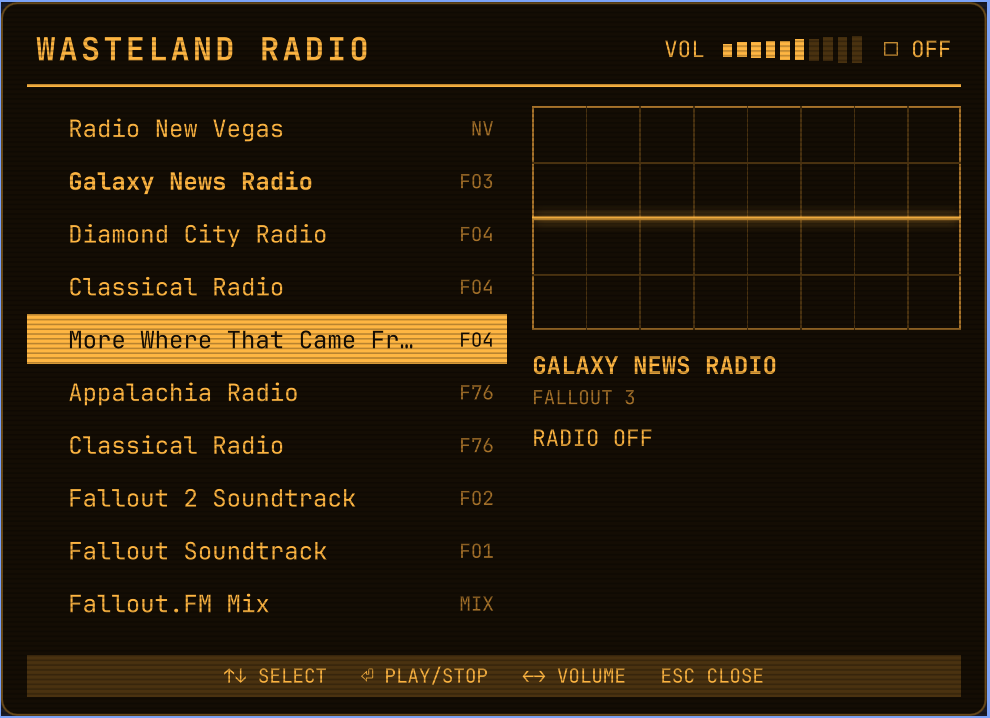
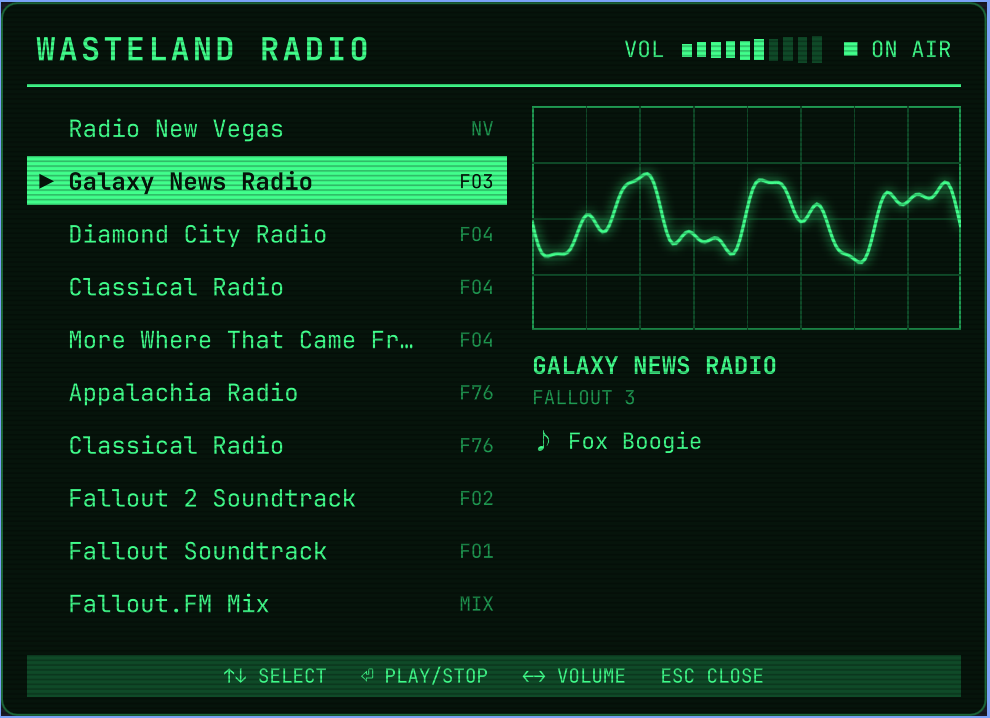
Show the green tuner playing in the preview

diff --git a/README.md b/README.md
@@ -2,7 +2,7 @@
 
 An [Omarchy](https://omarchy.org) bar widget that plays Fallout radio stations while you work, with a green-phosphor terminal tuner for picking them. All ten streams from the fan-run [fallout.fm](https://fallout.fm) are on it.
 
-![The tuner with the amber screen](preview.png)
+![The tuner playing Galaxy News Radio](preview.png)
 
 - **Click** to open the tuner: click a station to play it, or click the one playing to stop it
 - **Middle-click** to play or stop without opening it
